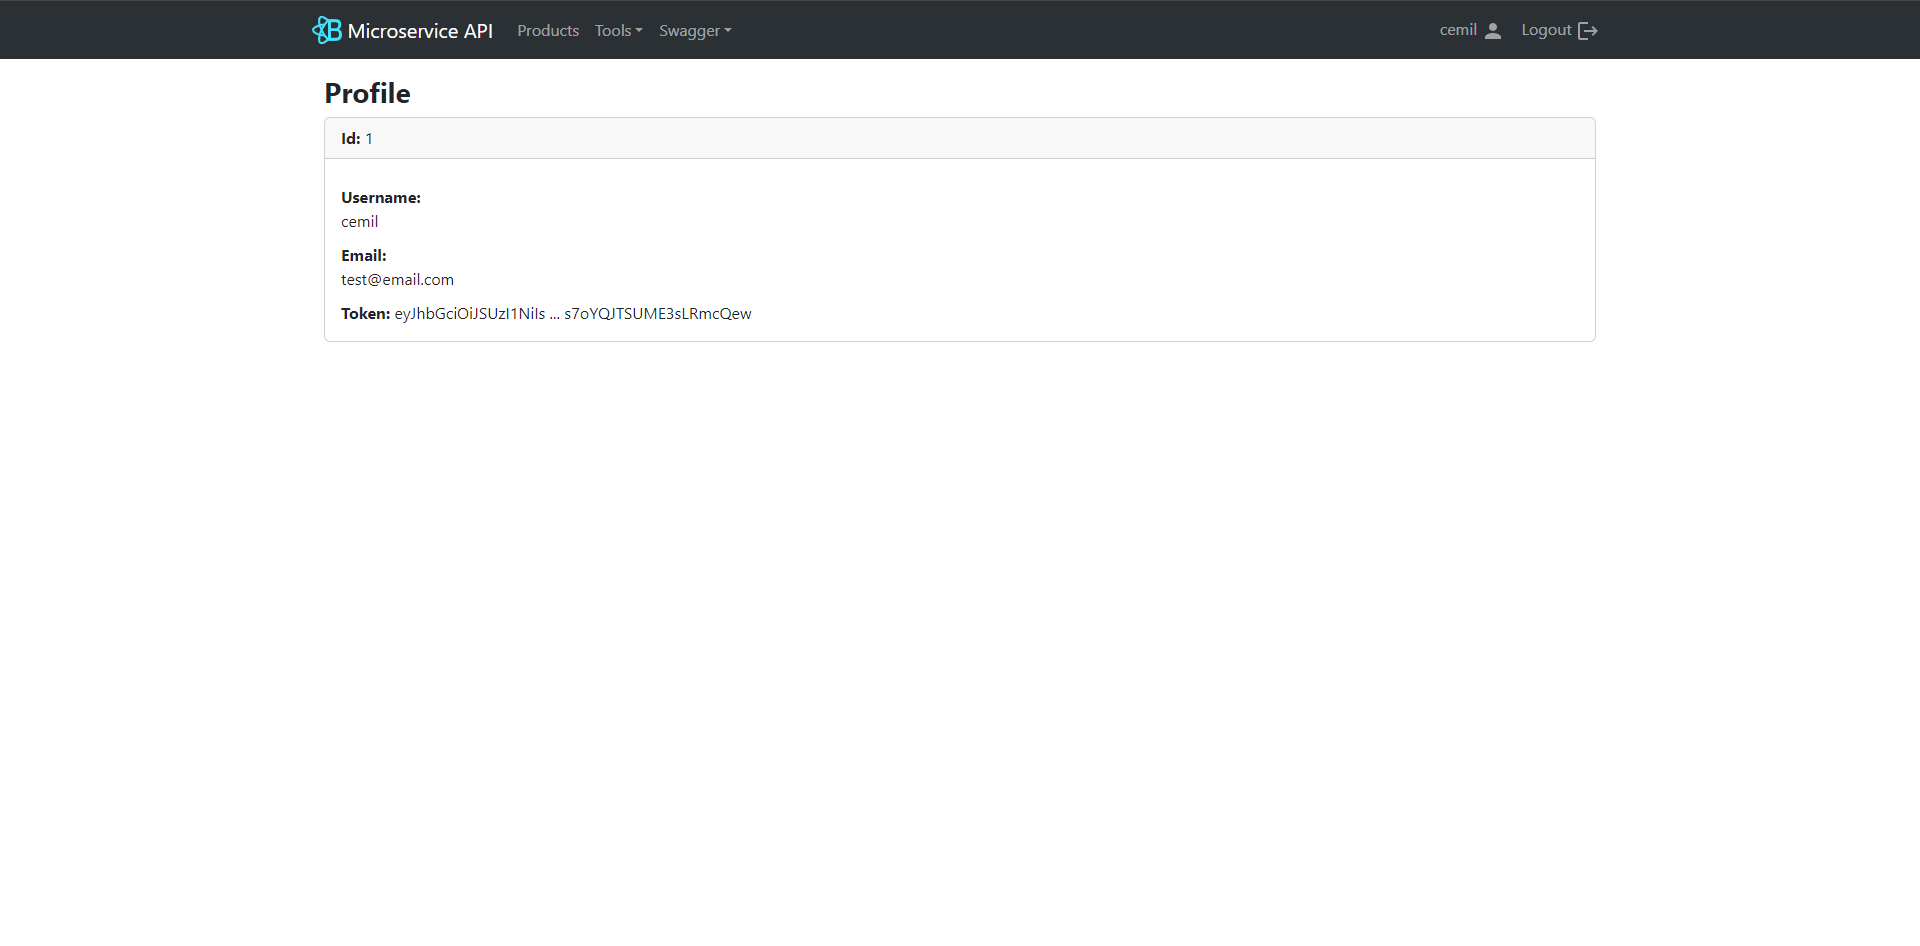
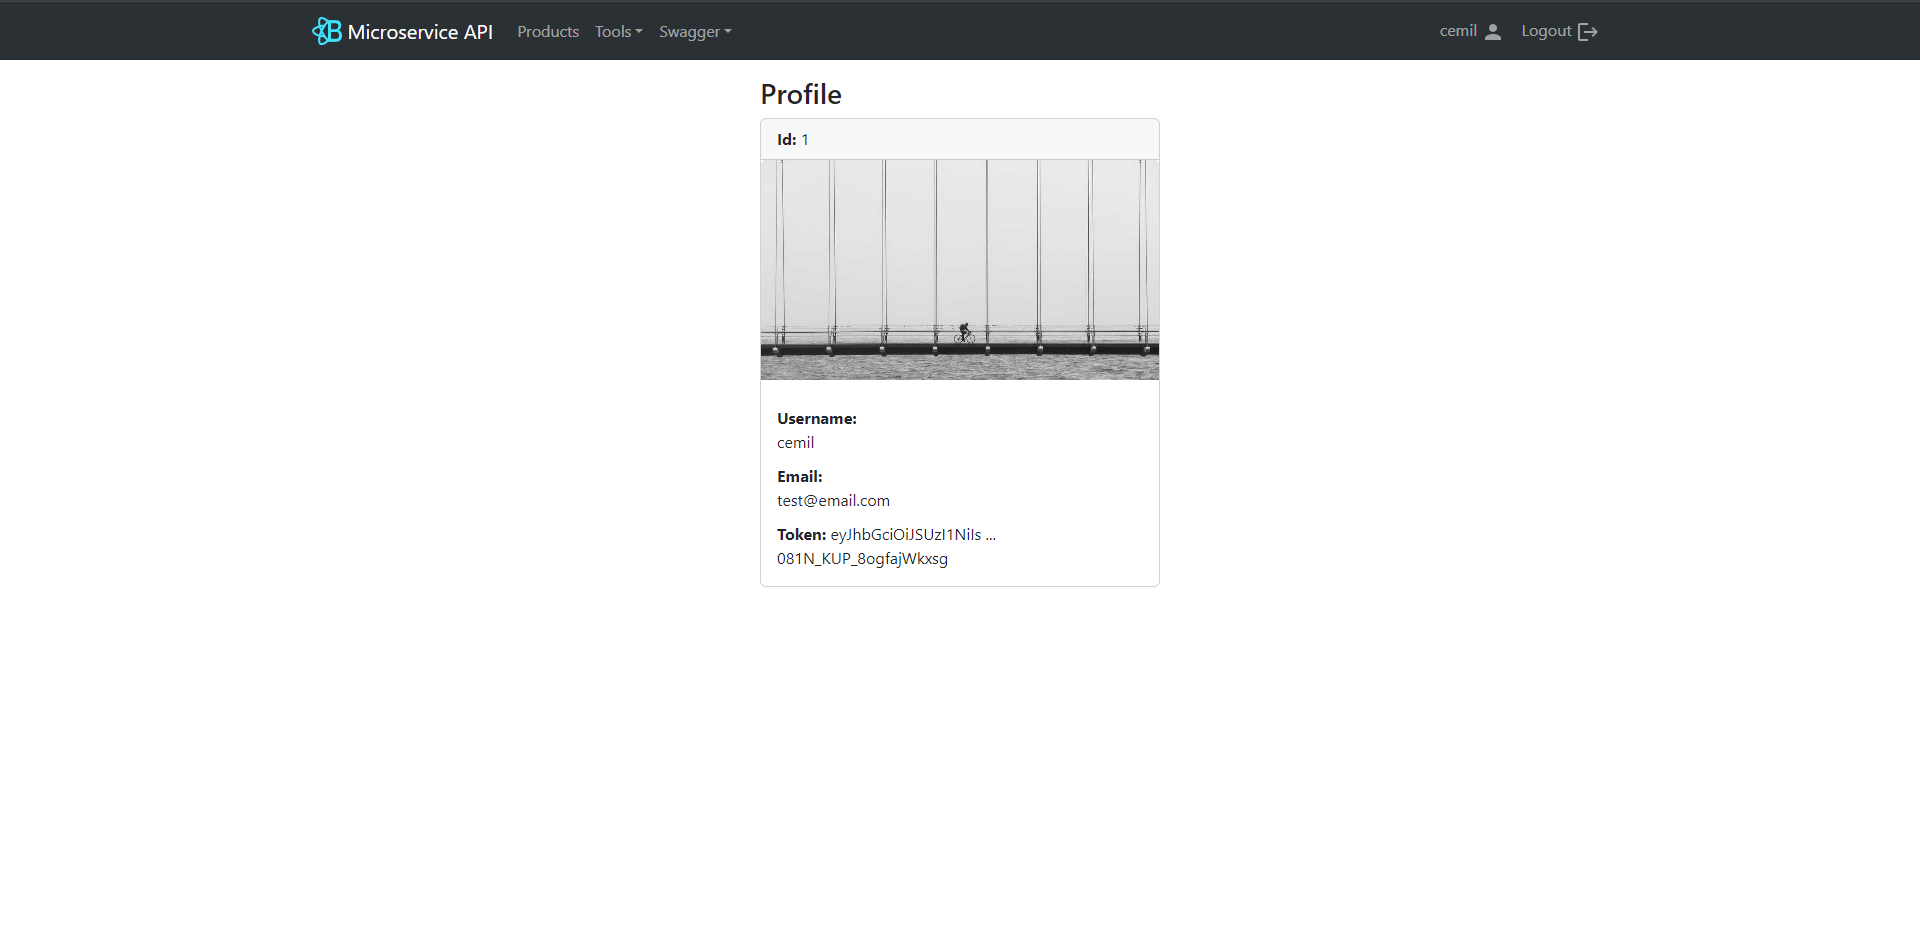
Profile page ui changes

diff --git a/src/components/ProfileComponent.js b/src/components/ProfileComponent.js
@@ -13,14 +13,17 @@ class Profile extends Component {
         }
 
         return (
-            <div className="container">
-                <header className="jumbotron">
-                    <h3>
-                        <strong>Profile</strong>
-                    </h3>
-                </header>
-                <Card style={{ marginTop: 0 }}>
+            <div className="container d-grid justify-content-center">
+                <h3>
+                    Profile
+                </h3>
+                <Card style={{ marginTop: 0, maxWidth: '400px' }}>
                     <Card.Header><strong>Id:</strong> {currentUser.id}</Card.Header>
+                    <Card.Img
+                        variant="top"
+                        src="https://picsum.photos/1200"
+                        style={{ height: '220px', objectFit: 'cover', alignSelf: 'center' }}
+                    />
                     <Card.Body>
                         <Card.Text>
                             <label>

diff --git a/src/components/RegisterComponent.js b/src/components/RegisterComponent.js
@@ -114,7 +114,7 @@ class Register extends Component {
             <div className="col-md-12">
                 <div className="cardLogin card-container">
                     <img
-                        src="https://picsum.photos/200"
+                        src="https://picsum.photos/400"
                         alt="profile-img"
                         className="profile-img-card"
                     />

diff --git a/src/components/LoginComponent.js b/src/components/LoginComponent.js
@@ -86,7 +86,7 @@ class Login extends Component {
             <div className="col-md-12">
                 <div className="cardLogin card-container">
                     <img
-                        src="https://picsum.photos/200"
+                        src="https://picsum.photos/400"
                         alt="profile-img"
                         className="profile-img-card"
                     />
